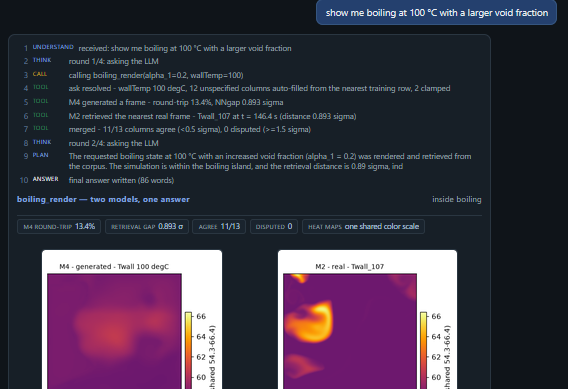
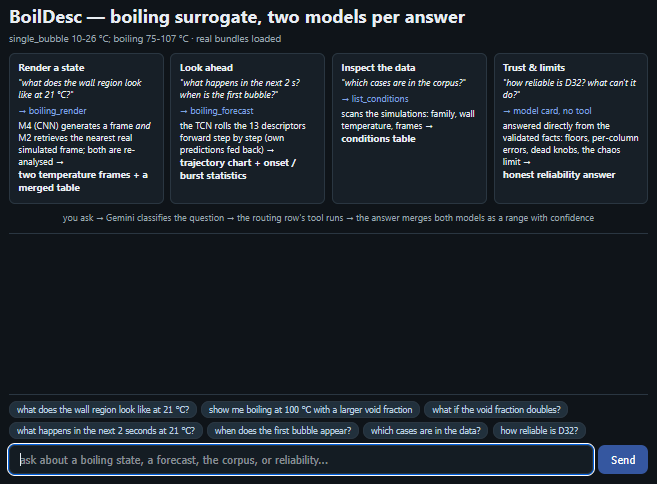
edit media

diff --git a/README.md b/README.md
@@ -153,6 +153,8 @@ drives through **tool calling**.
 
 ![preview](media/5.png)
 
+![preview](media/6.png)
+
 ---
 
 ## The whole demonstration
